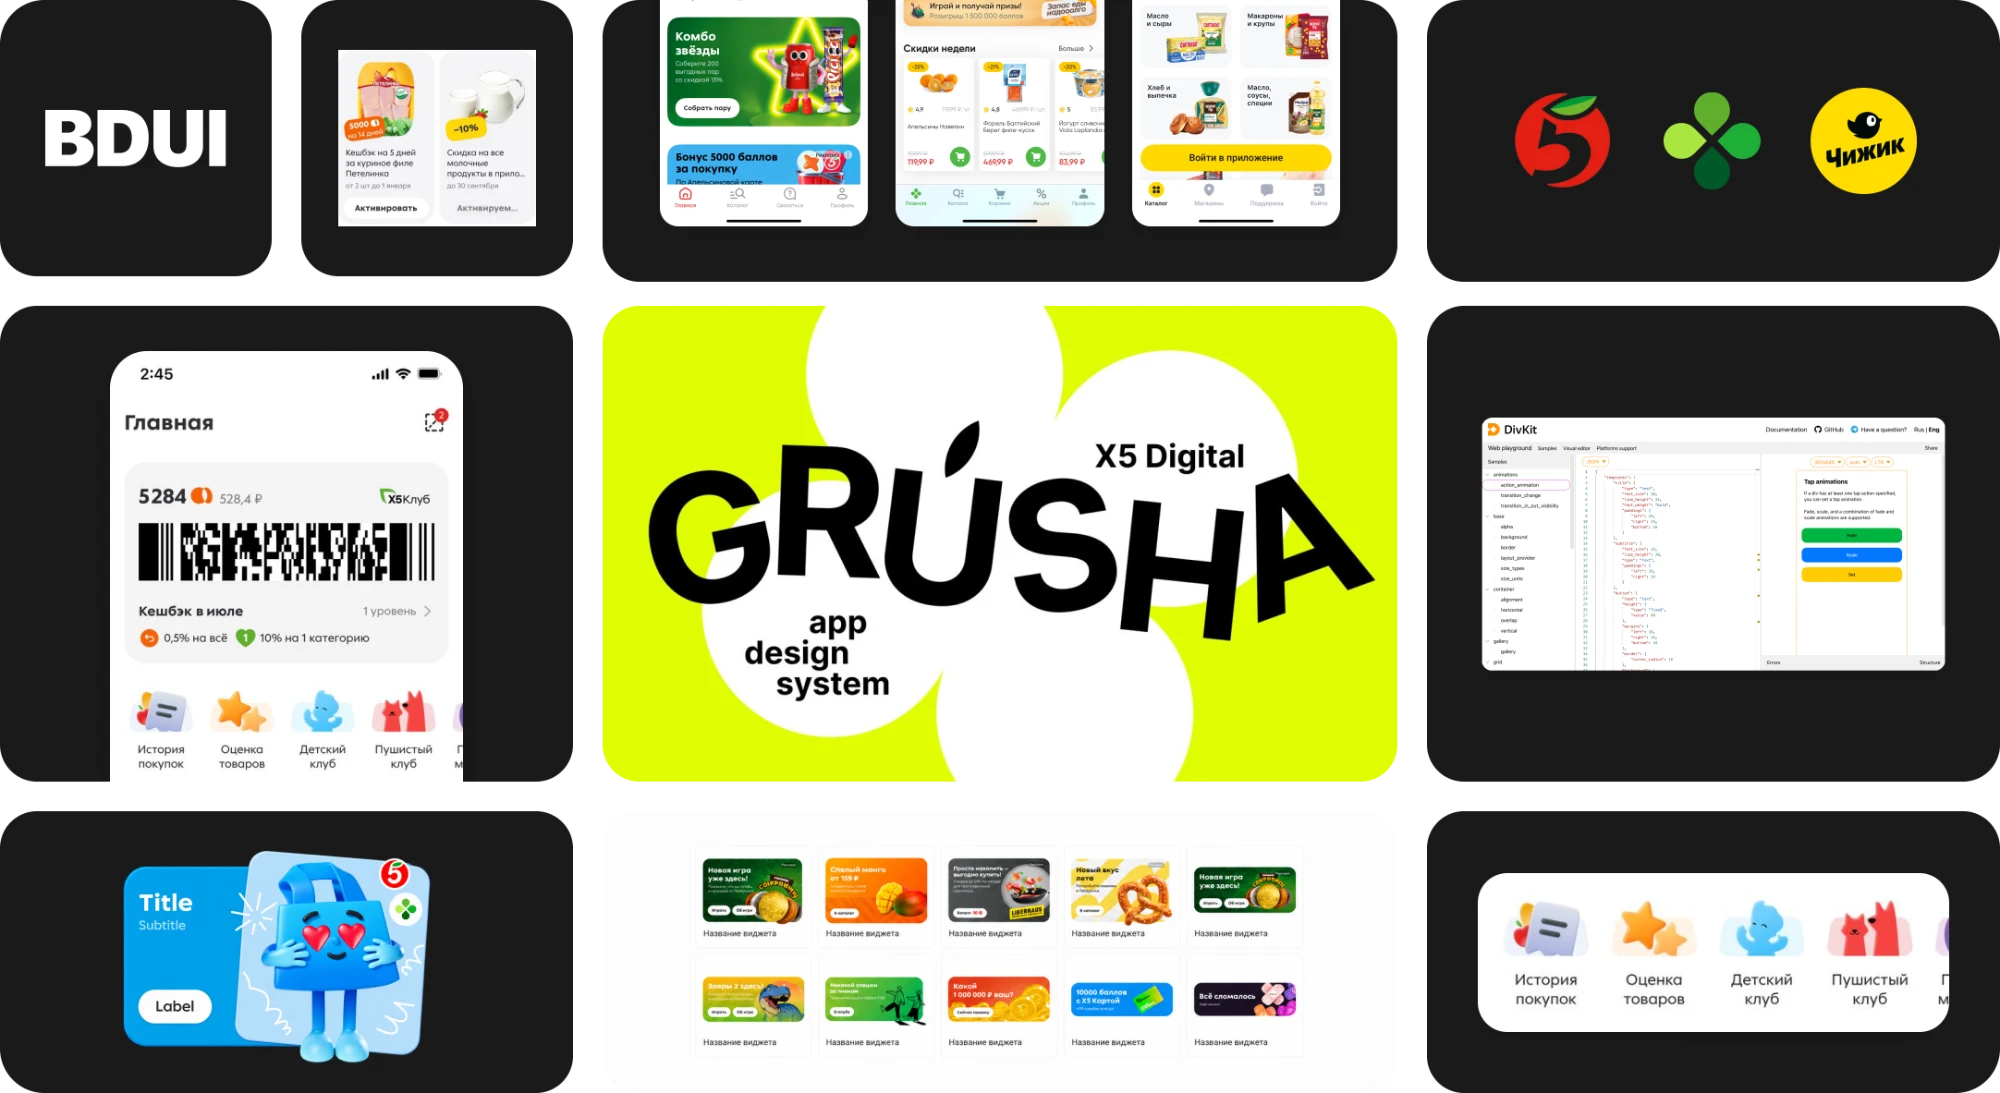
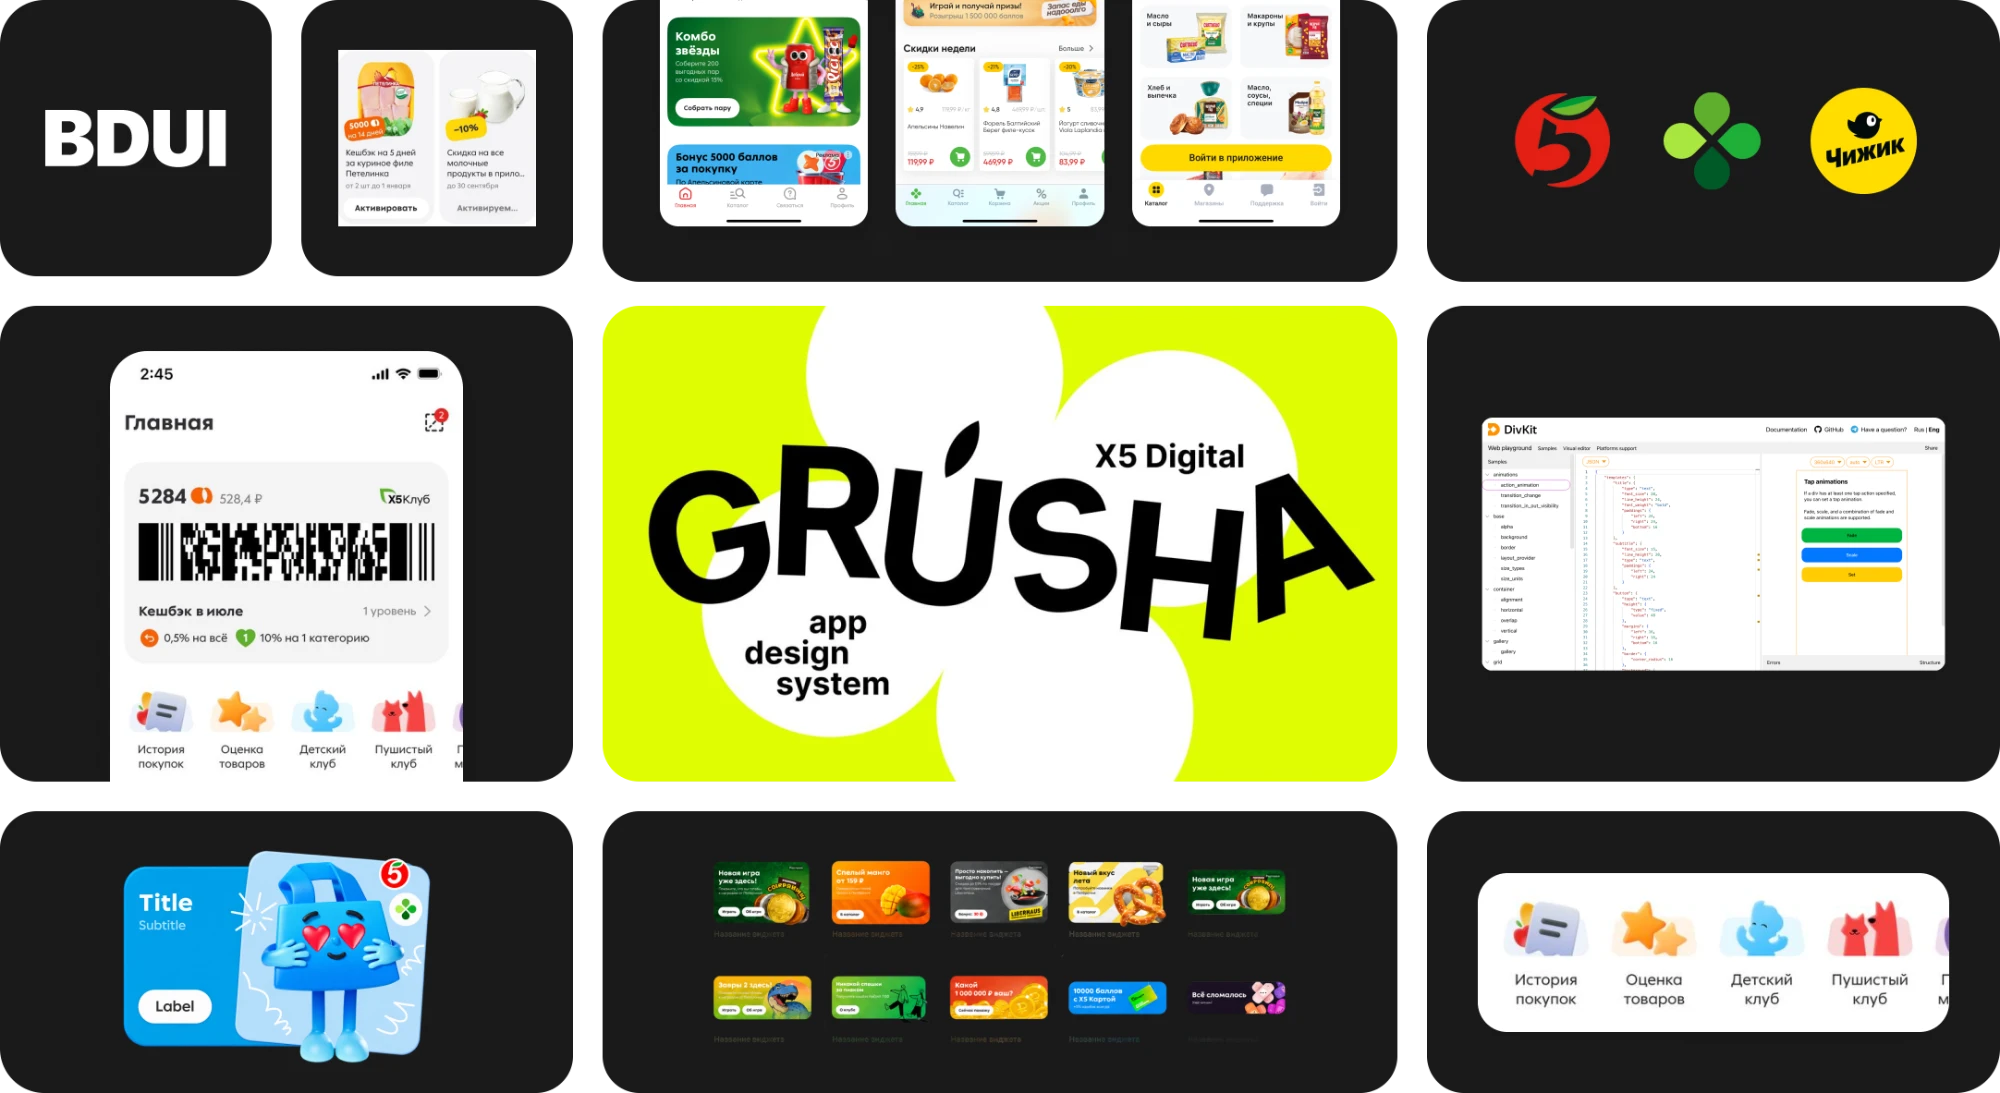
About: update X5 light/dark images

Changed region(s): [[0.279, 0.7155, 0.713, 1.0]]

diff --git a/about.html b/about.html
@@ -110,8 +110,8 @@
               <p>В&nbsp;команде дизайн-системы отвечал за&nbsp;UI&nbsp;компонентов. Внедрил дизайн-токены, чтобы одна библиотека работала для всех трёх брендов.</p>
             </div>
             <figure class="job__media">
-              <img draggable="false" class="job__media-light" src="images/x5-digital-light.webp?v=4" alt="Дизайн-система Grusha от X5 Digital: компоненты, виджеты и экраны приложений Пятёрочки, Перекрёстка и Чижика, DivKit" width="2000" height="1093" loading="lazy">
-              <img draggable="false" class="job__media-dark" src="images/x5-digital-dark.webp?v=4" alt="Дизайн-система Grusha от X5 Digital: компоненты, виджеты и экраны приложений Пятёрочки, Перекрёстка и Чижика, DivKit" width="2000" height="1093" loading="lazy">
+              <img draggable="false" class="job__media-light" src="images/x5-digital-light.webp?v=5" alt="Дизайн-система Grusha от X5 Digital: компоненты, виджеты и экраны приложений Пятёрочки, Перекрёстка и Чижика, DivKit" width="2000" height="1093" loading="lazy">
+              <img draggable="false" class="job__media-dark" src="images/x5-digital-dark.webp?v=5" alt="Дизайн-система Grusha от X5 Digital: компоненты, виджеты и экраны приложений Пятёрочки, Перекрёстка и Чижика, DivKit" width="2000" height="1093" loading="lazy">
             </figure>
           </div>
         </li>
